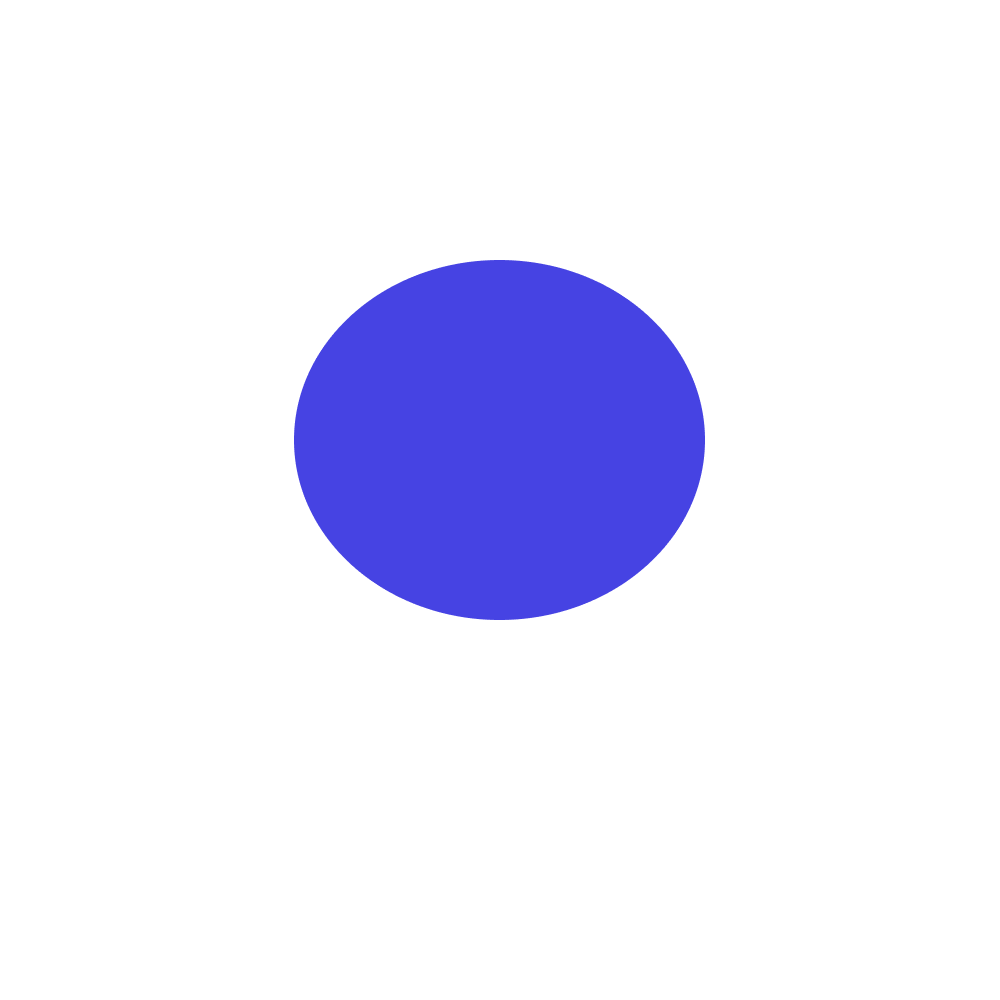
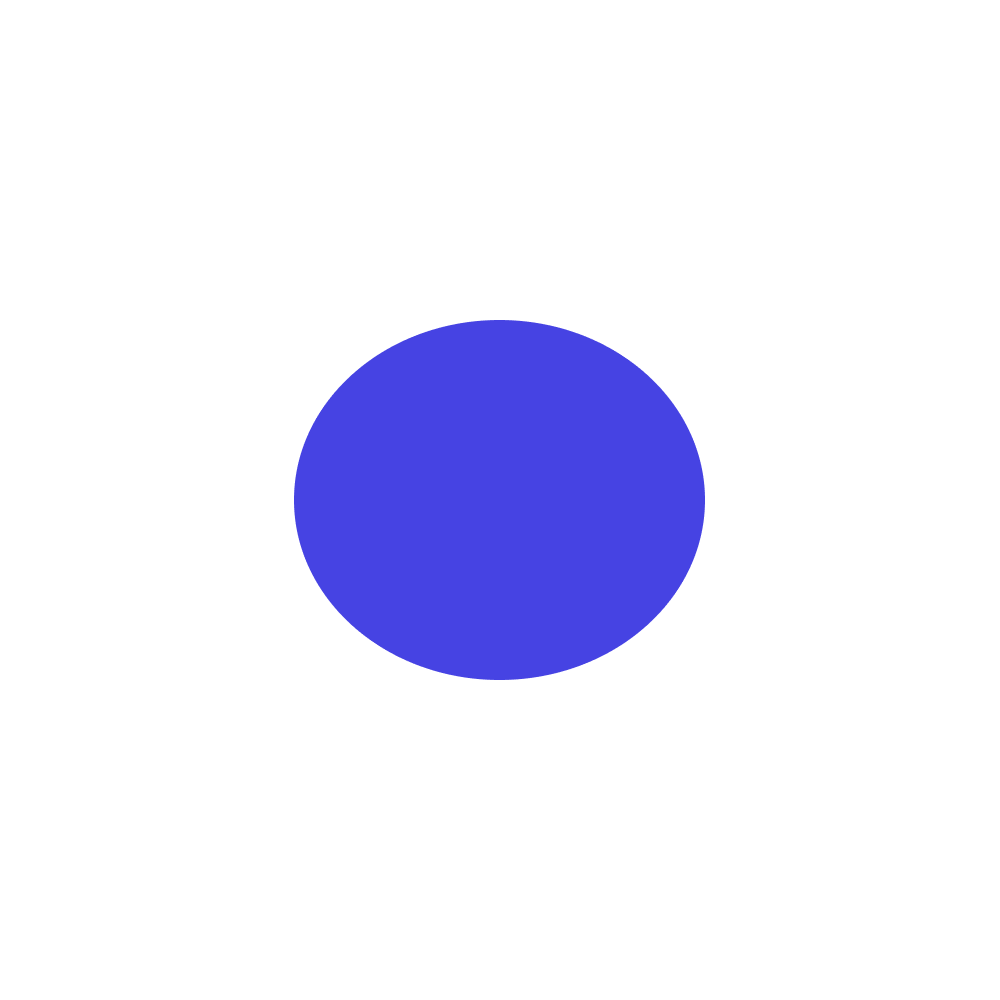
checks for unique dna

Changed region(s): [[0.279, 0.248, 0.713, 0.682]]

diff --git a/index.js b/index.js
@@ -5,11 +5,12 @@ const { layers, width, height } = require("./input/config.js");
 const canvas = createCanvas(width, height);
 const ctx = canvas.getContext("2d");
 // number of artworks that are going to be created
-const edition = myArgs.length > 0 ? Number(myArgs[0]) : 1;
+const editionSize = myArgs.length > 0 ? Number(myArgs[0]) : 1;
 var metadata = [];
 var attributes = [];
 var hash = [];
 var decodedHash = [];
+var dnaList = [];
 
 // function to save the image
 const saveLayer = (_canvas, _edition) => {
@@ -69,17 +70,44 @@ const drawLayer = async (_layer, _edition) => {
   saveLayer(canvas, _edition);
 };
 
-// loops the edtions
-for (let i = 1; i <= edition; i++) {
-  // for each edition draw a image
-  layers.forEach((layer) => {
-    drawLayer(layer, i);
-  });
-  addMetadata(i);
-  console.log("creating edition " + i);
-}
+const isDnaUnique = (_DnaList = [], _dna) => {
+  // true or false will be return, if its not unique it is false
+  let foundDna = _DnaList.find((i) => i === _dna);
+  return foundDna == undefined ? true : false;
+};
 
-fs.readFile("./output/_metadata.json", (err, data) => {
-  if (err) throw err;
+const createDna = (_len) => {
+  let randNum = Math.floor(
+    Number(`1e${_len}`) + Math.random() * Number(`9e${_len}`)
+  );
+  return randNum;
+};
+
+const writeMetaData = () => {
   fs.writeFileSync("./output/_metadata.json", JSON.stringify(metadata));
-});
+};
+
+// this is where the miniting takes place
+const startCreating = () => {
+  let editionCount = 1;
+  // loops the edtions
+  while (editionCount <= editionSize) {
+    let newDna = createDna(layers.length * 2 - 1);
+    console.log(`${newDna}`);
+    if ((isDnaUnique(dnaList), newDna)) {
+      // for each edition draw a image
+      layers.forEach((layer) => {
+        drawLayer(layer, i);
+      });
+      // addMetadata(i);
+      // console.log("creating edition " + i);
+      dnaList.push(newDna);
+      editionCount++;
+    } else {
+      console.log("DNA exists");
+    }
+  }
+};
+
+startCreating();
+writeMetaData();

diff --git a/input/config.js b/input/config.js
@@ -52,7 +52,15 @@ const getElements = (path) => {
 
 const layers = [
   {
-    id: 1,
+    id: 4,
+    name: "background",
+    location: `${dir}/background/`,
+    elements: getElements(`${dir}/background/`),
+    position: { x: 0, y: 0 },
+    size: { width: width, height: height },
+  },
+  {
+    id: 0,
     name: "shape",
     location: `${dir}/shape/`,
     elements: getElements(`${dir}/shape/`),
